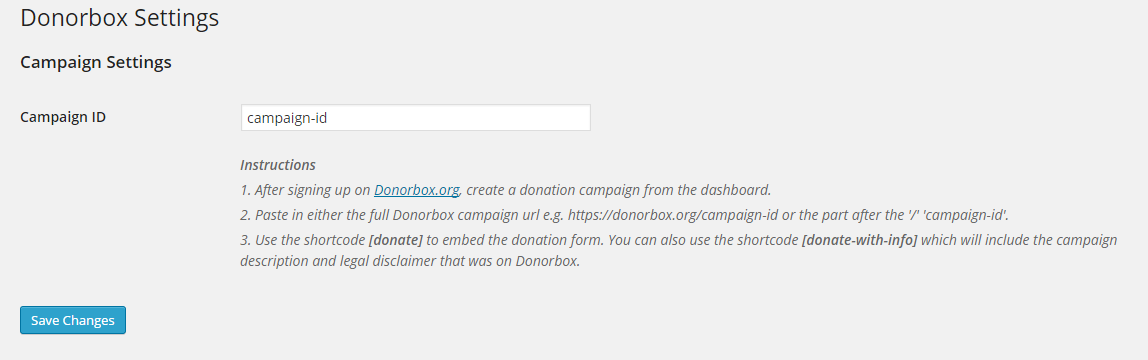
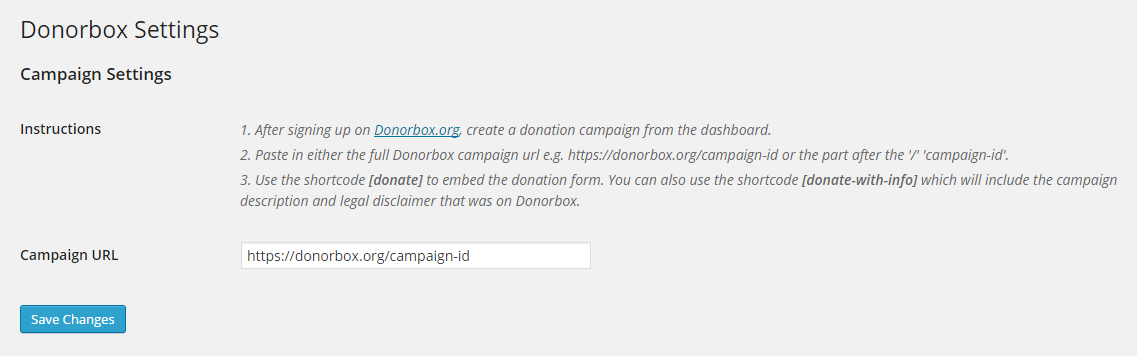
Layout and screenshot update
git-svn-id: https://plugins.svn.wordpress.org/donorbox-donation-form/trunk@1067204 b8457f37-d9ea-0310-8a92-e5e31aec5664

diff --git a/donorbox_embed_campaign.php b/donorbox_embed_campaign.php
@@ -6,7 +6,7 @@ Description: This plugin will embed Donorbox Donation Form to your site using sh
 Author: rebelidealist
 Author URI: https://donorbox.org
 Tags: donorbox, donation, embed, campaign, form, shortcode
-Version: 1.0
+Version: 1.1
 License: GPLv2 or later.
 License URI: http://www.gnu.org/licenses/gpl-2.0.html
 */
@@ -57,7 +57,8 @@ class Donorbox_donation_form {
     public function donorbox_register_settings_and_fields() {
         register_setting('donorbox_embed_campaign_options', 'donorbox_embed_campaign_options');
         add_settings_section('donorbox_campaign_settings_section', 'Campaign Settings', array($this, 'donorbox_embed_campaign_callback'), __FILE__);
-        add_settings_field('donorbox_embed_campaign_id', 'Campaign ID', array($this, 'donorbox_embed_campaign_id_settings'), __FILE__, 'donorbox_campaign_settings_section');
+        add_settings_field('donorbox_embed_campaign_instructions', 'Instructions', array($this, 'donorbox_embed_campaign_instructions_text'), __FILE__, 'donorbox_campaign_settings_section');
+        add_settings_field('donorbox_embed_campaign_id', 'Campaign URL', array($this, 'donorbox_embed_campaign_id_settings'), __FILE__, 'donorbox_campaign_settings_section');
     }
 
     /** 
@@ -66,15 +67,20 @@ class Donorbox_donation_form {
     public function donorbox_embed_campaign_callback() {}
 
     /** 
-     * Campaign details section
+     * Campaign instructions
      */
-    public function donorbox_embed_campaign_id_settings() { ?>
-        <input name="donorbox_embed_campaign_options[donorbox_embed_campaign_id]" type="text" value="<?php echo $this->options['donorbox_embed_campaign_id']; ?>" class="regular-text" />
-        <br/><br/>
-        <p class="description"><strong><i>Instructions</i></strong></p>
+    public function donorbox_embed_campaign_instructions_text() { ?>
         <p class="description">1. After signing up on <a href="https://donorbox.org" target="_blank">Donorbox.org</a>, create a donation campaign from the dashboard.</p>
         <p class="description">2. Paste in either the full Donorbox campaign url e.g. https://donorbox.org/campaign-id or the part after the '/' 'campaign-id'.</p>
         <p class="description">3. Use the shortcode <strong>[donate]</strong> to embed the donation form. You can also use the shortcode <strong>[donate-with-info]</strong> which will include the campaign description and legal disclaimer that was on Donorbox.</p>
+        <?php
+    }
+
+    /** 
+     * Campaign details input
+     */
+    public function donorbox_embed_campaign_id_settings() { ?>
+        <input name="donorbox_embed_campaign_options[donorbox_embed_campaign_id]" type="text" value="<?php echo $this->options['donorbox_embed_campaign_id']; ?>" class="regular-text" />
         <?php
     }
 }
